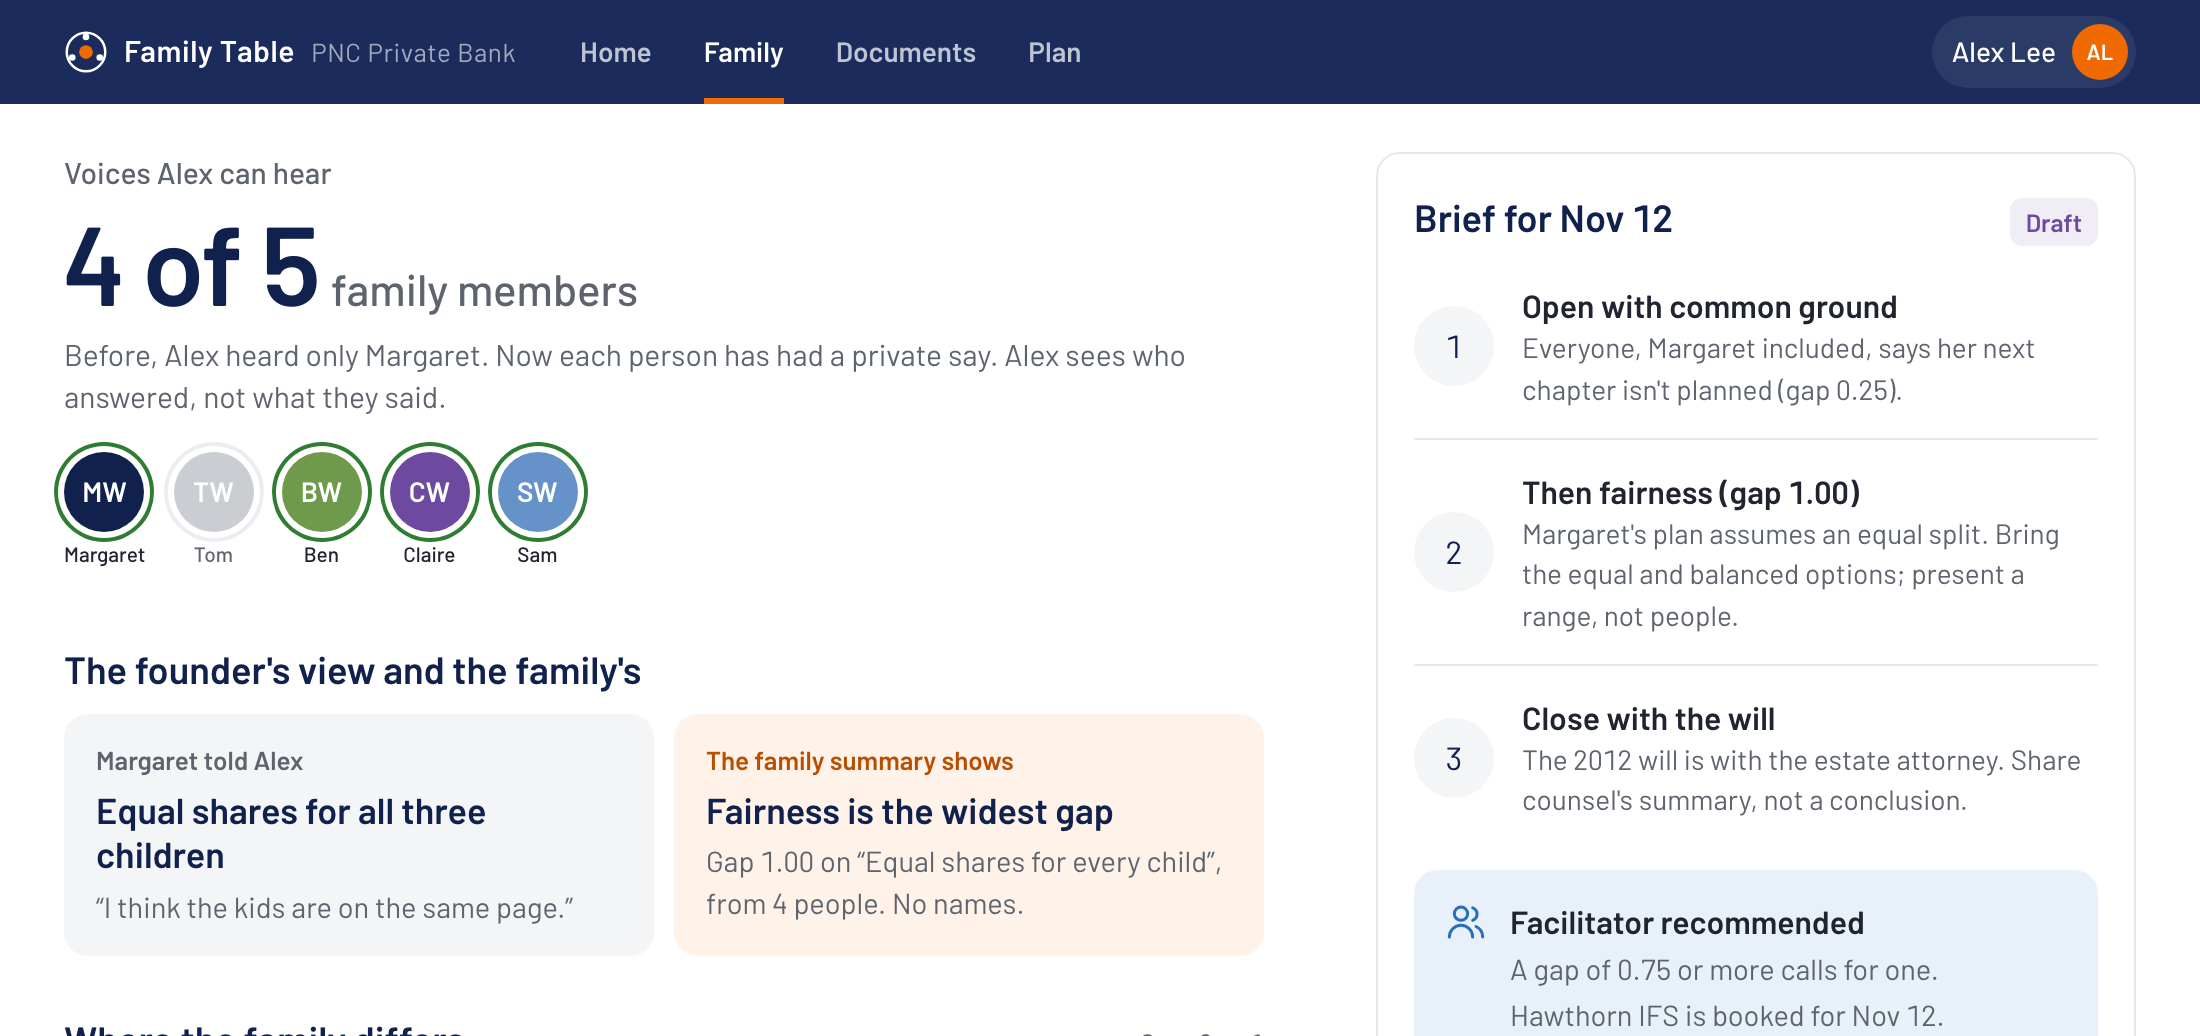
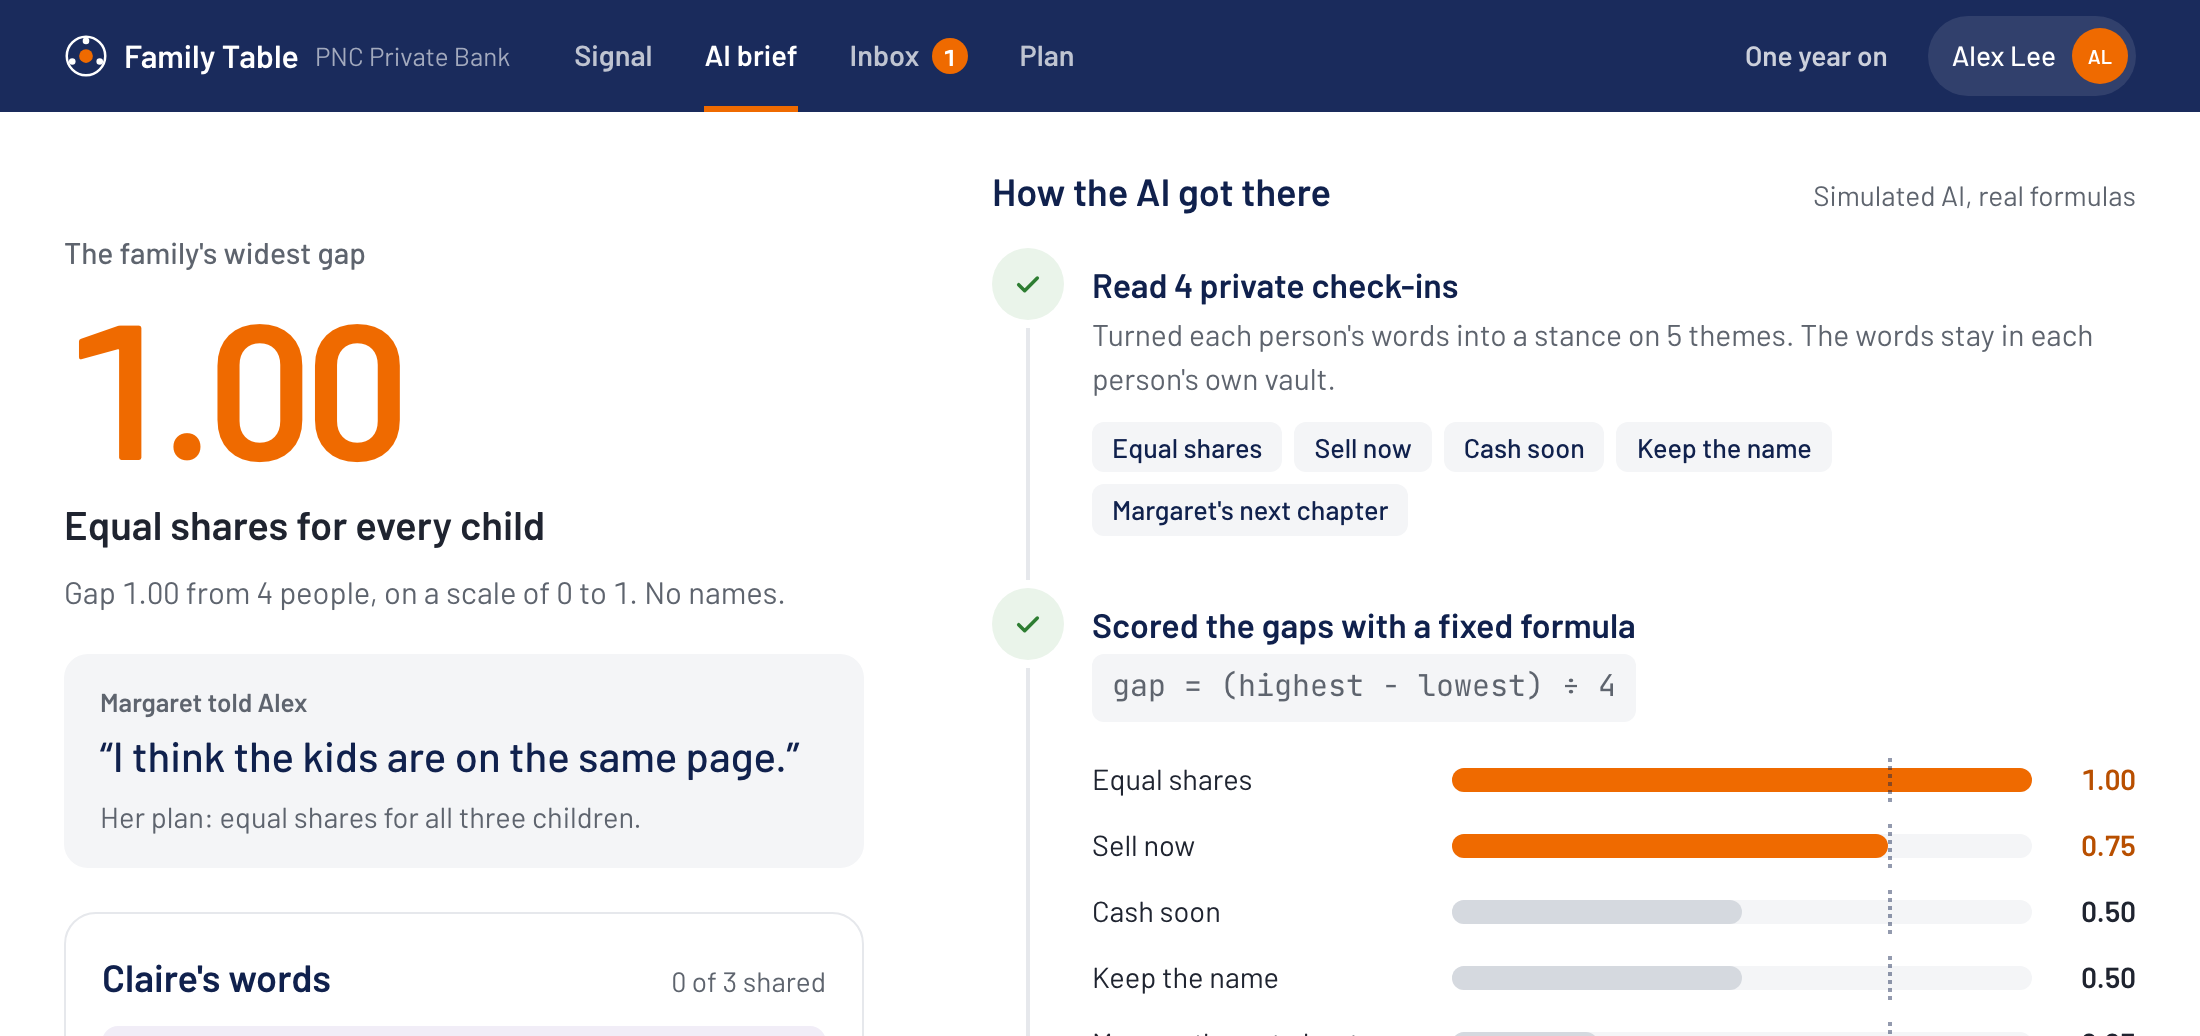
Update slides source, slide crops and script v3 to the reworked app

diff --git a/slides/claude_deck/slides/family.html b/slides/claude_deck/slides/family.html
@@ -1,23 +1,23 @@
 <section id="family" data-transition="fade" style="background:#F5F6F8;color:#10214D;font-family:'Barlow', Arial, sans-serif;padding:112px 128px 160px;display:flex;flex-direction:column;gap:32px">
 <div style="display:flex;flex-direction:column;gap:12px">
 <p style="font-size:28px;font-weight:600;color:#B84F00">AI client and family experience</p>
-<h2 style="font-size:48px;font-weight:400;line-height:1.15;color:#10214D">Each family member sees their own number first, then speaks in private</h2>
+<h2 style="font-size:48px;font-weight:400;line-height:1.15;color:#10214D">Each person sees their own number, votes in private and asks Alex</h2>
 </div>
 <div style="display:flex;flex-direction:row;gap:64px;align-items:center">
 <div style="display:flex;flex-direction:row;gap:28px">
-<img src="/_blob/c93fcfd1acf26b364c9f02d2373626f8" alt="Sam's phone: his share of the family gift, $4.3M, a split toggle, sale progress, an Ask bar and his next steps" style="width:262px;height:568px;object-fit:cover;border:8px solid #0B1533;border-radius:28px">
-<img src="/_blob/a9b684304a5d8436995f94b1d5f32088" alt="Claire's phone: private check-in with detected themes and a switch to share each answer with Alex" style="width:262px;height:568px;object-fit:cover;border:8px solid #0B1533;border-radius:28px">
+<img src="/_blob/bb6ce9bce7e651bd16badfc4b975f215" alt="Sam's phone: his share, $4.25M, and three split options with every child's bar; his private vote is Balanced" style="width:262px;height:568px;object-fit:cover;border:8px solid #0B1533;border-radius:28px">
+<img src="/_blob/3bb084389be7f5aecbfa94e9515c5996" alt="Claire's phone: private check-in with detected themes and a switch to share each answer with Alex" style="width:262px;height:568px;object-fit:cover;border:8px solid #0B1533;border-radius:28px">
 </div>
 <div style="flex:1;display:flex;flex-direction:column;gap:30px">
 <div style="display:flex;flex-direction:column;gap:8px">
 <h3 style="font-size:32px;font-weight:600;color:#10214D">Their own number first</h3>
-<p style="font-size:26px;line-height:1.4;color:#4A5160">Sam, outside the business, sees his share and when it arrives. The split toggles live.</p>
-<p style="font-size:24px;line-height:1.4;color:#5B3E8A"><b>AI:</b> his screen is ordered by role and what he raised; a fixed calculator does the math.</p>
+<p style="font-size:26px;line-height:1.4;color:#4A5160">Sam sees his number under all three splits, then votes privately. The tally shows only at three votes, with no names.</p>
+<p style="font-size:24px;line-height:1.4;color:#5B3E8A"><b>AI:</b> none in the numbers; a fixed calculator does every split.</p>
 </div>
 <div style="display:flex;flex-direction:column;gap:8px">
-<h3 style="font-size:32px;font-weight:600;color:#10214D">One place to ask</h3>
-<p style="font-size:26px;line-height:1.4;color:#4A5160">“Do I have to move my money to PNC?” is answered honestly: no, any bank works.</p>
-<p style="font-size:24px;line-height:1.4;color:#5B3E8A"><b>AI:</b> Claude or GPT through one PNC gateway; never legal or tax advice.</p>
+<h3 style="font-size:32px;font-weight:600;color:#10214D">Ask Alex</h3>
+<p style="font-size:26px;line-height:1.4;color:#4A5160">A question goes to Alex, not a chatbot. The reply comes with its numbers, and a call is one tap away.</p>
+<p style="font-size:24px;line-height:1.4;color:#5B3E8A"><b>AI:</b> drafts the reply from the calculator; Alex edits and approves before it sends.</p>
 </div>
 <div style="display:flex;flex-direction:column;gap:8px">
 <h3 style="font-size:32px;font-weight:600;color:#10214D">Private by default</h3>
@@ -27,5 +27,5 @@
 </div>
 </div>
 <p style="position:absolute;left:128px;bottom:64px;width:1664px;font-size:24px;color:#6B717C">Source: Family Table prototype (mobile). The Wilson family and all figures are fictional; AI responses are simulated.</p>
-<aside>Two phone screens. Left: Sam, who lives in Austin and isn't in the business, opens the app and sees one number, his share, and when it arrives. Right: Claire writes that equal is the only fair split, and that she has never said so to her mother. The app tags fairness and an unspoken concern, and she decides whether Alex may read it. This answers Margaret's friction: her family avoids direct conversations.</aside>
+<aside>Two phone screens. Left: Sam, who lives in Austin and isn't in the business, sees his share under each of the three splits and casts a private, advisory vote. The family sees only a count, once three people have voted. Right: Claire writes that equal is the only fair split and that she has never told her mother; she decides whether Alex may read it. Both answer Margaret's friction: the family avoids direct conversations. And when anyone has a question, it goes to Alex, with an AI draft Alex approves first.</aside>
 </section>

diff --git a/slides/claude_deck/slides/advisor.html b/slides/claude_deck/slides/advisor.html
@@ -5,16 +5,16 @@
 </div>
 <div style="display:flex;flex-direction:row;gap:48px">
 <div style="flex:1;display:flex;flex-direction:column;gap:14px">
-<img src="/_blob/f26b65ba2af286a34e471c7ed0f39039" alt="Advisor home: Wilson Transport sale likelihood 81, up 11 this month, a 12-month trend line and a watchlist" style="width:808px;height:380px;object-fit:cover;border:1px solid #DDE0E4;border-radius:8px">
-<h3 style="font-size:32px;font-weight:600;color:#10214D">A watchlist for family sales</h3>
-<p style="font-size:26px;line-height:1.4;color:#4A5160">Payments to deal advisers lift Wilson Transport to 81, up 11 this month.</p>
+<img src="/_blob/c23687b87853216f7c4e53d773bcad8a" alt="Advisor signal: Wilson Transport sale likelihood 81, $8.0–9.0M at stake for PNC, and the family's check-in status, up 11 this month, a 12-month trend line and a watchlist" style="width:808px;height:380px;object-fit:cover;border:1px solid #DDE0E4;border-radius:8px">
+<h3 style="font-size:32px;font-weight:600;color:#10214D">The signal, and what’s at stake</h3>
+<p style="font-size:26px;line-height:1.4;color:#4A5160">Wilson Transport hits 81. $8.0–9.0M is heading to heirs who bank elsewhere.</p>
 <p style="font-size:24px;line-height:1.4;color:#5B3E8A"><b>AI:</b> a gradient-boosted model scores account events and lists its reasons.</p>
 </div>
 <div style="flex:1;display:flex;flex-direction:column;gap:14px">
-<img src="/_blob/27941fa91986918f88d1a61bb34ee249" alt="Family summary: 4 of 5 voices, Margaret's equal-split plan against the family's fairness gap, and a draft brief for Nov 12" style="width:808px;height:380px;object-fit:cover;border:1px solid #DDE0E4;border-radius:8px">
-<h3 style="font-size:32px;font-weight:600;color:#10214D">The founder’s view and the family’s</h3>
-<p style="font-size:26px;line-height:1.4;color:#4A5160">Margaret plans an equal split. The family’s widest gap is fairness.</p>
-<p style="font-size:24px;line-height:1.4;color:#5B3E8A"><b>AI:</b> a fixed formula scores each gap; a language model drafts; Alex approves.</p>
+<img src="/_blob/10300e4c12ca713e3ec613b333dbd32b" alt="AI brief: fairness gap 1.00 against Margaret's quote, and the AI's steps, from reading check-ins to scoring gaps with a fixed formula" style="width:808px;height:380px;object-fit:cover;border:1px solid #DDE0E4;border-radius:8px">
+<h3 style="font-size:32px;font-weight:600;color:#10214D">The AI shows its work</h3>
+<p style="font-size:26px;line-height:1.4;color:#4A5160">Margaret says the kids agree. The widest gap, 1.00, is fairness.</p>
+<p style="font-size:24px;line-height:1.4;color:#5B3E8A"><b>AI:</b> reads check-ins, scores gaps by formula, finds the will, drafts; Alex approves.</p>
 </div>
 </div>
 <p style="position:absolute;left:128px;bottom:64px;width:1664px;font-size:24px;color:#6B717C">Source: Family Table prototype. Scores and family data are fictional; the signal model is a concept to validate on PNC data.</p>

diff --git a/video/src/slides_check.js b/video/src/slides_check.js
@@ -9,10 +9,10 @@ const BIN = path.join(process.env.HOME, "Library/Caches/ms-playwright/chromium_h
 const [root, out] = process.argv.slice(2);
 const SHOTS = path.join(__dirname, "../../prototype/shots");
 const BLOBS = {
-  "c93fcfd1acf26b364c9f02d2373626f8": "me_sam_m.png",
-  "a9b684304a5d8436995f94b1d5f32088": "me_claire_checkin_m.png",
-  "f26b65ba2af286a34e471c7ed0f39039": "slide_advisor_home.png",
-  "27941fa91986918f88d1a61bb34ee249": "slide_advisor_align.png",
+  "bb6ce9bce7e651bd16badfc4b975f215": "me_sam_voted_m.png",
+  "3bb084389be7f5aecbfa94e9515c5996": "me_claire_checkin_m.png",
+  "c23687b87853216f7c4e53d773bcad8a": "slide_advisor_home.png",
+  "10300e4c12ca713e3ec613b333dbd32b": "slide_advisor_align.png",
 };
 const deck = JSON.parse(fs.readFileSync(path.join(root, "project/deck.json"), "utf8"));
 const CSS = `*,:before,:after{box-sizing:border-box;margin:0;padding:0;border:0 solid}

diff --git a/video/VIDEO_PLAN.md b/video/VIDEO_PLAN.md
@@ -32,13 +32,13 @@ The demo follows the guided tour, which alternates the family side and the advis
 | 4 | `advisor` | Advisor | chart draws; cursor → **Call Margaret** | PNC already banks the business. Payments to deal advisers flag a likely sale a year ahead, so Alex calls Margaret before anything is signed. |
 | 5 | `me/margaret` | Family | cursor → **Invite the family**; voices appear | Margaret invites her family. Each of them answers in private. She sees who has answered, never what they said. |
 | 6 | `me/claire/checkin` | Family | tags pop as text appears; cursor → **Share** on answer 1 | Claire writes what she's never told her mother: equal is the only fair split. She decides whether Alex can read it. |
-| 7 | `advisor/align` | Advisor | 4 of 5 voices; founder's view against the family's; cursor → **Approve brief** | Alex now hears four voices, not one. Margaret's plan assumes the kids agree. The family's widest gap is fairness. AI drafts the brief, a facilitator is booked, and Alex approves it. |
-| 8 | `me/sam` → `me/sam/options` → Ask | Family | **Equity counted**; shares move; Ask "When will I receive my share?" | Sam just wants his number. So that comes first, and every share moves together as the family compares splits. Claude or GPT explains, inside PNC's guardrails. |
-| 9 | `advisor/docs` → `advisor/plan` | Advisor | **Send to estate attorney**, then **Introduce** Claire | Old documents go to the right specialist, and Alex meets Claire and Sam before eight million dollars reaches them. |
-| 10 | `story/sauce` | — | three layers | Why only PNC? It sees the sale coming. It hears what families won't say out loud. And it meets the heirs before the money moves. |
-| 11 | `story/close` | — | end card, team names | Family Table. A plan the family trusts. An advisor who hears everyone. Proceeds that stay. |
+| 7 | `advisor/align` | Advisor | the AI trace plays: check-ins → gap formula → Margaret's plan → the will → draft brief; cursor → **Approve** | Alex now hears four voices, not one. AI reads the check-ins, scores the gaps, and finds the old will. Margaret thought the kids agreed. The widest gap is fairness, and Alex approves the brief. |
+| 8 | `me/sam/options` | Family | three split cards; cursor → vote **Balanced**; tally appears as counts | Sam sees his number under every split, and votes in private. The family sees a count, never a name. |
+| 9 | `me/sam/ask` → `advisor/inbox` | Both | Sam asks; Alex's inbox shows the AI draft; cursor → **Approve and send** | When Sam has a question, it goes to Alex. AI drafts the reply; Alex checks it, and sends. |
+| 10 | `year-one` | Both | big numbers: $27.0M placed, 5 of 5 with PNC, $8.5M reached Claire and Sam | One year on, the sale has closed, the plan is everyday banking, and all five Wilsons work with PNC. |
+| 11 | `story/sauce` → `story/close` | — | three layers, then end card | Why only PNC? It sees the sale coming, hears what families won't say out loud, and meets the heirs before the money moves. Family Table. A plan the family trusts. |
 
-**Hard cap is 2:00.** If the take runs long, cut line 3 first, then the second sentence of line 8. Lines 4 to 7 stay.
+**Hard cap is 2:00.** If the take runs long, cut line 3 first, then the last sentence of line 8. Lines 4 to 7 and 10 stay.
 
 **Facts spoken, all cited on screen:**
 - "Thirteen percent" is from Cerulli 2019, via InvestmentNews.

diff --git a/video/RECORDING_SCRIPT.md b/video/RECORDING_SCRIPT.md
@@ -5,7 +5,7 @@
 Target: **about 1:50 of speaking**, 2:00 at most.
 **Bold** = stress this word. ` / ` = a small breath.
 
-The screen follows the guided tour (`prototype/?tour`): it alternates the family side and the advisor side.
+The screen follows the 8-step demo from the splash (`prototype/?tour`), alternating the family and advisor sides and ending on One year on.
 
 ---
 
@@ -40,27 +40,27 @@ Claire writes what she's never told her mother: / equal is the only fair split. 
 *(pause 2 s)*
 
 ### 7 · Align: advisor side · about 12 s
-Alex now hears **four voices**, not one. / Margaret's plan assumes the kids agree. / The family's widest gap / is **fairness**. / AI drafts the brief, / a facilitator is booked, / and **Alex approves it**.
+Alex now hears **four voices**, not one. / AI reads the check-ins, / scores the gaps, / and finds the old will. / Margaret thought the kids agreed. / The widest gap is **fairness**, / and **Alex approves** the brief.
 
 *(pause 2 s)*
 
-### 8 · Allocate: family side · about 10 s
-Sam just wants his number. / So that comes **first**, / and every share moves together / as the family compares splits. / Claude or GPT explains, / **inside PNC's guardrails**.
+### 8 · Allocate: family side · about 9 s
+Sam sees **his number** under every split, / and votes **in private**. / The family sees a count, / never a name.
 
 *(pause 2 s)*
 
-### 9 · Activate: advisor side · about 9 s
-Old documents go to the right specialist, / and Alex meets Claire and Sam / **before** eight million dollars reaches them.
+### 9 · Activate: both sides · about 8 s
+When Sam has a question, / it goes to **Alex**. / AI drafts the reply; / Alex checks it, / and sends.
 
 *(pause 2 s)*
 
-### 10 · Why only PNC · about 11 s
-Why only PNC? / It **sees** the sale coming. / It **hears** what families won't say out loud. / And it **meets the heirs** / before the money moves.
+### 10 · One year on · about 9 s
+One year on, / the sale has closed, / the plan is everyday banking, / and **all five** Wilsons work with PNC.
 
 *(pause 2 s)*
 
-### 11 · Close · about 7 s
-**Family Table.** / A plan the family trusts. / An advisor who hears everyone. / Proceeds that **stay**.
+### 11 · Why only PNC, and close · about 12 s
+Why only PNC? / It **sees** the sale coming, / **hears** what families won't say out loud, / and **meets the heirs** before the money moves. / **Family Table.** / A plan the family trusts.
 
 ---
 
